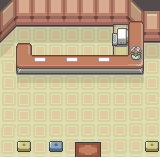
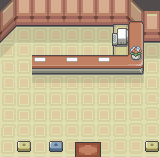
update bank

Changed region(s): [[0.0938, 0.2548, 0.2188, 0.4841]]

diff --git a/src/simcity/gui/bank/BankTellerGui.java b/src/simcity/gui/bank/BankTellerGui.java
@@ -14,16 +14,28 @@ import simcity.interfaces.bank.BankTeller;
 
 public class BankTellerGui extends Gui {
 	
-	private final int WINDOW1_X = 150;
-	private final int WINDOW1_Y = 200;
+	private final int WINDOW1_X_FRONT = 120;
+	private final int WINDOW1_Y_FRONT = 200;
+	
+	private final int corridorx = 30;
+	private final int corridory = 100;
+			;
+	private final int WINDOW1_X = 120;
+	private final int WINDOW1_Y = 160;
+	
+	private final int WINDOW2_X_FRONT = 200;
+	private final int WINDOW2_Y_FRONT = 200;
 	
 	private final int WINDOW2_X = 200;
-	private final int WINDOW2_Y = 200;
+	private final int WINDOW2_Y = 160;
+	
+	private final int WINDOW3_X_FRONT = 250;
+	private final int WINDOW3_Y_FRONT = 200;
 	
 	private final int WINDOW3_X = 250;
-	private final int WINDOW3_Y = 200;
+	private final int WINDOW3_Y = 160;
 
-	private final int HOST_X = 300;
+	private final int HOST_X = 250;
 	private final int HOST_Y = 400;
 	
 	ImageIcon ii = new ImageIcon("res/person/persondownbig.png");
@@ -37,11 +49,23 @@ public class BankTellerGui extends Gui {
 	public void draw(Graphics2D g) {
 		g.drawImage(img, x, y, null);
 	}
+	public void DoGoToCorridor() {
+		DoGoToLocation(corridorx, corridory);
+	}
+	public void DoGoToWindow1Front() {
+		DoGoToLocation(WINDOW1_X_FRONT, WINDOW1_Y_FRONT);
+	}
 	public void DoGoToWindow1() {
 		DoGoToLocation(WINDOW1_X, WINDOW1_Y);
 	}
+	public void DoGoToWindow2Front() {
+		DoGoToLocation(WINDOW1_X_FRONT, WINDOW1_Y_FRONT);
+	}
 	public void DoGoToWindow2() {
 		DoGoToLocation(WINDOW2_X, WINDOW2_Y);
+	}
+	public void DoGoToWindow3Front() {
+		DoGoToLocation(WINDOW1_X_FRONT, WINDOW1_Y_FRONT);
 	}
 	public void DoGoToWindow3() {
 		DoGoToLocation(WINDOW3_X, WINDOW3_Y);

diff --git a/src/simcity/buildings/bank/BankCustomerRole.java b/src/simcity/buildings/bank/BankCustomerRole.java
@@ -27,7 +27,7 @@ public class BankCustomerRole extends Role implements simcity.interfaces.bank.Ba
 	private int landlordAccountNumber;		// when customer wants to pay rent, he gives this accountNumber instead
 
 	// set inside bank
-	//private BankHostRole bh;  We might not need this anymore
+	private BankHostRole bh;  
 	private BankTellerRole bt;
 	private int windowNumber;
 	
@@ -58,9 +58,7 @@ public class BankCustomerRole extends Role implements simcity.interfaces.bank.Ba
     }
     
     // utility functions
-	/*public void setBankHost(BankHostRole bh) {
-		this.bh = bh;
-	}*/
+	
 	public String getCustomerName() {
 		return person.getName();
 	}     
@@ -79,6 +77,11 @@ public class BankCustomerRole extends Role implements simcity.interfaces.bank.Ba
 	
 	//messages from personagent
 	public void msgDepositMoney(BankSystem b) {
+		System.out.println("I need to open an account and deposit money");
+		cashOnHand = 50;
+		accountPassword = "abcdef";
+		amountToProcess = 20;
+		transactionType = TransactionType.openAccount;
 		bank = b;
 		stateChanged();
 	}
@@ -233,9 +236,14 @@ public class BankCustomerRole extends Role implements simcity.interfaces.bank.Ba
 	    		e.printStackTrace();
 	    	}
 	    	*/
-	    	System.out.println("I'm here for bank transaction, host is: "+bank);
+	    	System.out.println("I'm here for bank transaction, host is: "+bank.getBankHost());
 	    	bank.getBankHost().msgEnteringBank(this);
-		    
+	    	((BankCustomerGui)gui).DoGoToBankTeller(1);
+			try {
+	    		atDest.acquire();
+	    	} catch (InterruptedException e) {
+	    		e.printStackTrace();
+	    	}
 		}
 
 		private void OpenAccount() {

diff --git a/src/simcity/PersonAgent.java b/src/simcity/PersonAgent.java
@@ -17,6 +17,7 @@ import simcity.interfaces.market.MarketCustomer;
 import simcity.interfaces.transportation.Pedestrian;
 import simcity.buildings.bank.BankCustomerRole;
 import simcity.buildings.bank.BankHostRole;
+import simcity.buildings.bank.BankSystem;
 import simcity.buildings.bank.BankTellerRole;
 import simcity.buildings.house.HouseInhabitantRole;
 import simcity.buildings.market.MarketCashierRole;
@@ -195,12 +196,15 @@ public class PersonAgent extends Agent implements Person {
 			}
 			//hack
 			BankCustomerRole bc = new BankCustomerRole(this);
-			((BankCustomer)eventR).msgArrivedAtBank();
 			
+			((BankCustomer)eventR).msgDepositMoney((BankSystem)(Directory.getSystem(buildingName)));
+			((BankCustomer)eventR).msgArrivedAtBank();
 			e = new Event(buildingName, eventR, 120, -1, true, steps, t);
 			
 			insertEvent(e);
 			stateChanged();
+			
+			
 		}
 		else if (t == EventType.WithdrawMoney) {
 			List<String> banks = Directory.getBanks();

diff --git a/src/simcity/interfaces/bank/BankCustomer.java b/src/simcity/interfaces/bank/BankCustomer.java
@@ -1,10 +1,11 @@
 package simcity.interfaces.bank;
 
 import simcity.buildings.bank.BankCustomerRole;
+import simcity.buildings.bank.BankSystem;
 import simcity.buildings.bank.BankTellerRole;
 
 public interface BankCustomer {
-	
+	public abstract void msgDepositMoney(BankSystem b);
 	public abstract void msgArrivedAtBank();
 	public abstract void msgGoToWindow(int windowNumber, BankTellerRole bt);
 	public abstract void msgHereIsAccountInfo(BankCustomerRole bc, int accountNumber, double accountBalance);

diff --git a/src/simcity/gui/bank/BankCustomerGui.java b/src/simcity/gui/bank/BankCustomerGui.java
@@ -17,13 +17,13 @@ public class BankCustomerGui extends Gui{
 	Image img = ii.getImage();
 
 	private int xDestination, yDestination;
-	private final int WINDOW1_X = 150;
+	private final int WINDOW1_X = 120;
 	private final int WINDOW1_Y = 200;
 	
-	private final int WINDOW2_X = 200;
+	private final int WINDOW2_X = 160;
 	private final int WINDOW2_Y = 200;
 	
-	private final int WINDOW3_X = 250;
+	private final int WINDOW3_X = 200;
 	private final int WINDOW3_Y = 200;
 	
 	

diff --git a/src/simcity/buildings/bank/BankTellerRole.java b/src/simcity/buildings/bank/BankTellerRole.java
@@ -404,6 +404,13 @@ public class BankTellerRole extends Role implements simcity.interfaces.bank.Bank
 		} catch (InterruptedException e) {
 			e.printStackTrace();
 		}
+		((BankTellerGui)gui).DoGoToCorridor();
+		try {
+			atDest.acquire();
+		} catch (InterruptedException e) {
+			e.printStackTrace();
+		}
+		
 		
 	}
 	public void setHost(BankHostRole b) {

diff --git a/src/simcity/buildings/bank/BankSystem.java b/src/simcity/buildings/bank/BankSystem.java
@@ -69,6 +69,7 @@ public class BankSystem extends simcity.SimSystem{
 			bankTellers.add((BankTeller) role);
 		}
 		else if(role instanceof BankHost) {
+			System.out.println(role == null);
 			bh = (BankHost) role;
 		}
 		return true;
